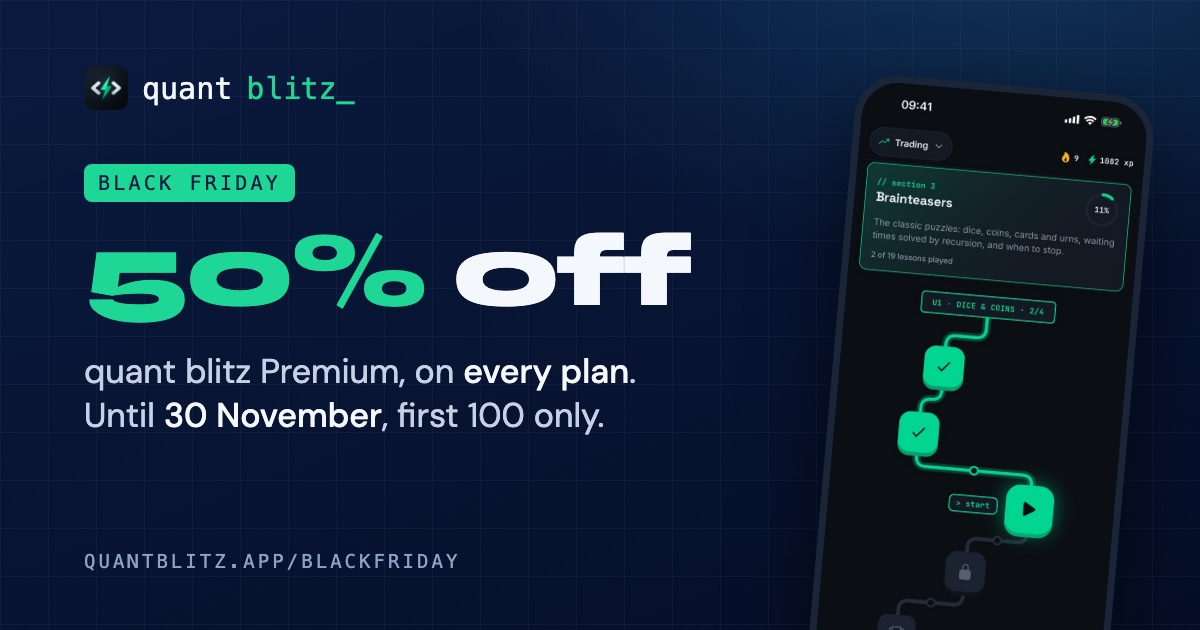
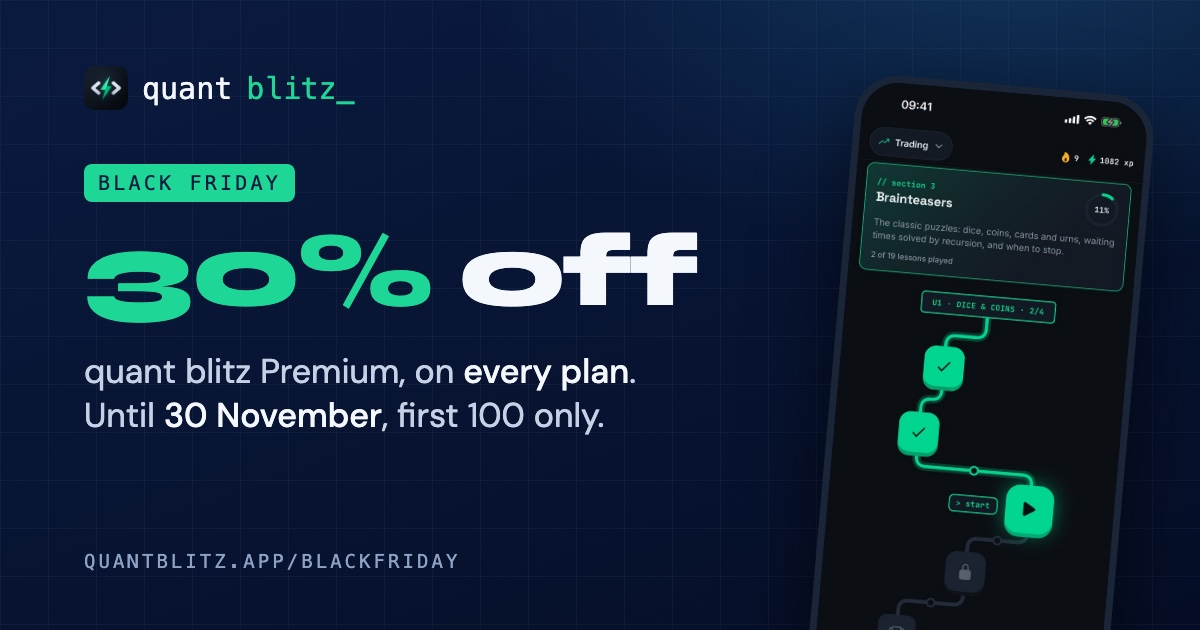
Update quant blitz pages

Changed region(s): [[0.0617, 0.3619, 0.5858, 0.5127]]

diff --git a/blackfriday/index.html b/blackfriday/index.html
@@ -3,10 +3,10 @@
   <head>
     <meta charset="utf-8" />
     <meta name="viewport" content="width=device-width, initial-scale=1, viewport-fit=cover" />
-    <title>Black Friday: 50% off quant blitz Premium</title>
+    <title>Black Friday: 30% off quant blitz Premium</title>
     <meta
       name="description"
-      content="Black Friday: 50% off quant blitz Premium on every plan, monthly, yearly or lifetime. Until 30 November, first 100 only."
+      content="Black Friday: 30% off quant blitz Premium on every plan, monthly, yearly or lifetime. Until 30 November, first 100 only."
     />
     <meta name="robots" content="noindex" />
     <link rel="canonical" href="https://quantblitz.app/blackfriday/" />
@@ -17,10 +17,10 @@
     <meta name="apple-itunes-app" content="app-id=6820223409" />
     <meta property="og:type" content="website" />
     <meta property="og:site_name" content="quant blitz" />
-    <meta property="og:title" content="Black Friday: 50% off quant blitz Premium" />
+    <meta property="og:title" content="Black Friday: 30% off quant blitz Premium" />
     <meta
       property="og:description"
-      content="50% off every plan of the quant interview prep app. Until 30 November, first 100 only."
+      content="30% off every plan of the quant interview prep app. Until 30 November, first 100 only."
     />
     <meta property="og:url" content="https://quantblitz.app/blackfriday/" />
     <meta property="og:image" content="https://quantblitz.app/img/blackfriday-og.jpg" />
@@ -28,7 +28,7 @@
     <meta property="og:image:height" content="630" />
     <meta
       property="og:image:alt"
-      content="quant blitz Black Friday: 50% off Premium until 30 November"
+      content="quant blitz Black Friday: 30% off Premium until 30 November"
     />
     <meta name="twitter:card" content="summary_large_image" />
     <link rel="preload" href="../fonts/syne-800.woff2" as="font" type="font/woff2" crossorigin />
@@ -961,7 +961,7 @@
             <span class="dot"></span>Black Friday · until 30 Nov
           </p>
           <h1 data-reveal style="--d: 0.12s">
-            <span class="big"><em>50%</em> off</span>
+            <span class="big"><em>30%</em> off</span>
             <span class="rest">quant blitz Premium, on every plan.</span>
           </h1>
           <p class="lede" data-reveal style="--d: 0.2s">
@@ -982,18 +982,18 @@
               class="plan"
               data-reveal
               style="--d: 0.36s"
-              href="https://apps.apple.com/redeem?ctx=offercodes&amp;id=6820223409&amp;code=BFMONTHLY"
+              href="https://apps.apple.com/redeem?ctx=offercodes&amp;id=6820223409&amp;code=BFMONTH"
             >
               <div class="plan-row">
                 <span class="name">Monthly</span>
                 <span class="price"
-                  ><s class="was">£19.99</s><span class="now">£9.99</span
+                  ><s class="was">£19.99</s><span class="now">£13.99</span
                   ><span class="per">/mo</span></span
                 >
               </div>
               <p class="note">For your first 3 months. Then £19.99 a month unless you cancel.</p>
               <div class="plan-foot">
-                <span>code <b>BFMONTHLY</b></span>
+                <span>code <b>BFMONTH</b></span>
                 <span class="go"
                   >Redeem
                   <svg
@@ -1015,21 +1015,21 @@
               class="plan featured"
               data-reveal
               style="--d: 0.44s"
-              href="https://apps.apple.com/redeem?ctx=offercodes&amp;id=6820223409&amp;code=BFYEARLY"
+              href="https://apps.apple.com/redeem?ctx=offercodes&amp;id=6820223409&amp;code=BFYEAR"
             >
               <div class="plan-row">
                 <span class="name">Yearly</span>
                 <span class="price"
-                  ><s class="was">£79.99</s><span class="now">£39.99</span
+                  ><s class="was">£79.99</s><span class="now">£55.99</span
                   ><span class="per">/yr</span></span
                 >
               </div>
               <p class="note">
-                For the first year, which works out at £3.33 a month. Renews at £79.99 unless you
+                For the first year, which works out at £4.67 a month. Renews at £79.99 unless you
                 cancel.
               </p>
               <div class="plan-foot">
-                <span>code <b>BFYEARLY</b></span>
+                <span>code <b>BFYEAR</b></span>
                 <span class="go"
                   >Redeem
                   <svg
@@ -1051,18 +1051,18 @@
               class="plan"
               data-reveal
               style="--d: 0.52s"
-              href="https://apps.apple.com/redeem?ctx=offercodes&amp;id=6820223409&amp;code=BFLIFETIME"
+              href="https://apps.apple.com/redeem?ctx=offercodes&amp;id=6820223409&amp;code=BFLIFE"
             >
               <div class="plan-row">
                 <span class="name">Lifetime</span>
                 <span class="price"
-                  ><s class="was">£199.99</s><span class="now">£99.99</span
+                  ><s class="was">£199.99</s><span class="now">£139.99</span
                   ><span class="per">once</span></span
                 >
               </div>
               <p class="note">Premium for good. Nothing renews.</p>
               <div class="plan-foot">
-                <span>code <b>BFLIFETIME</b></span>
+                <span>code <b>BFLIFE</b></span>
                 <span class="go"
                   >Redeem
                   <svg
@@ -1259,7 +1259,7 @@
       <div class="closing-card" data-reveal>
         <h2 id="closing-title">Ends 30 November. First 100 only.</h2>
         <p>
-          Pick a plan on your iPhone and the App Store takes the 50% off for you. On Android, the
+          Pick a plan on your iPhone and the App Store takes the 30% off for you. On Android, the
           sale prices are in the app.
         </p>
         <a class="btn" href="#plans"
@@ -1308,7 +1308,7 @@
     </footer>
 
     <div class="bar" inert>
-      <span><b>50% off</b> until 30 Nov</span>
+      <span><b>30% off</b> until 30 Nov</span>
       <a class="btn" href="#plans">Pick a plan</a>
     </div>
 
